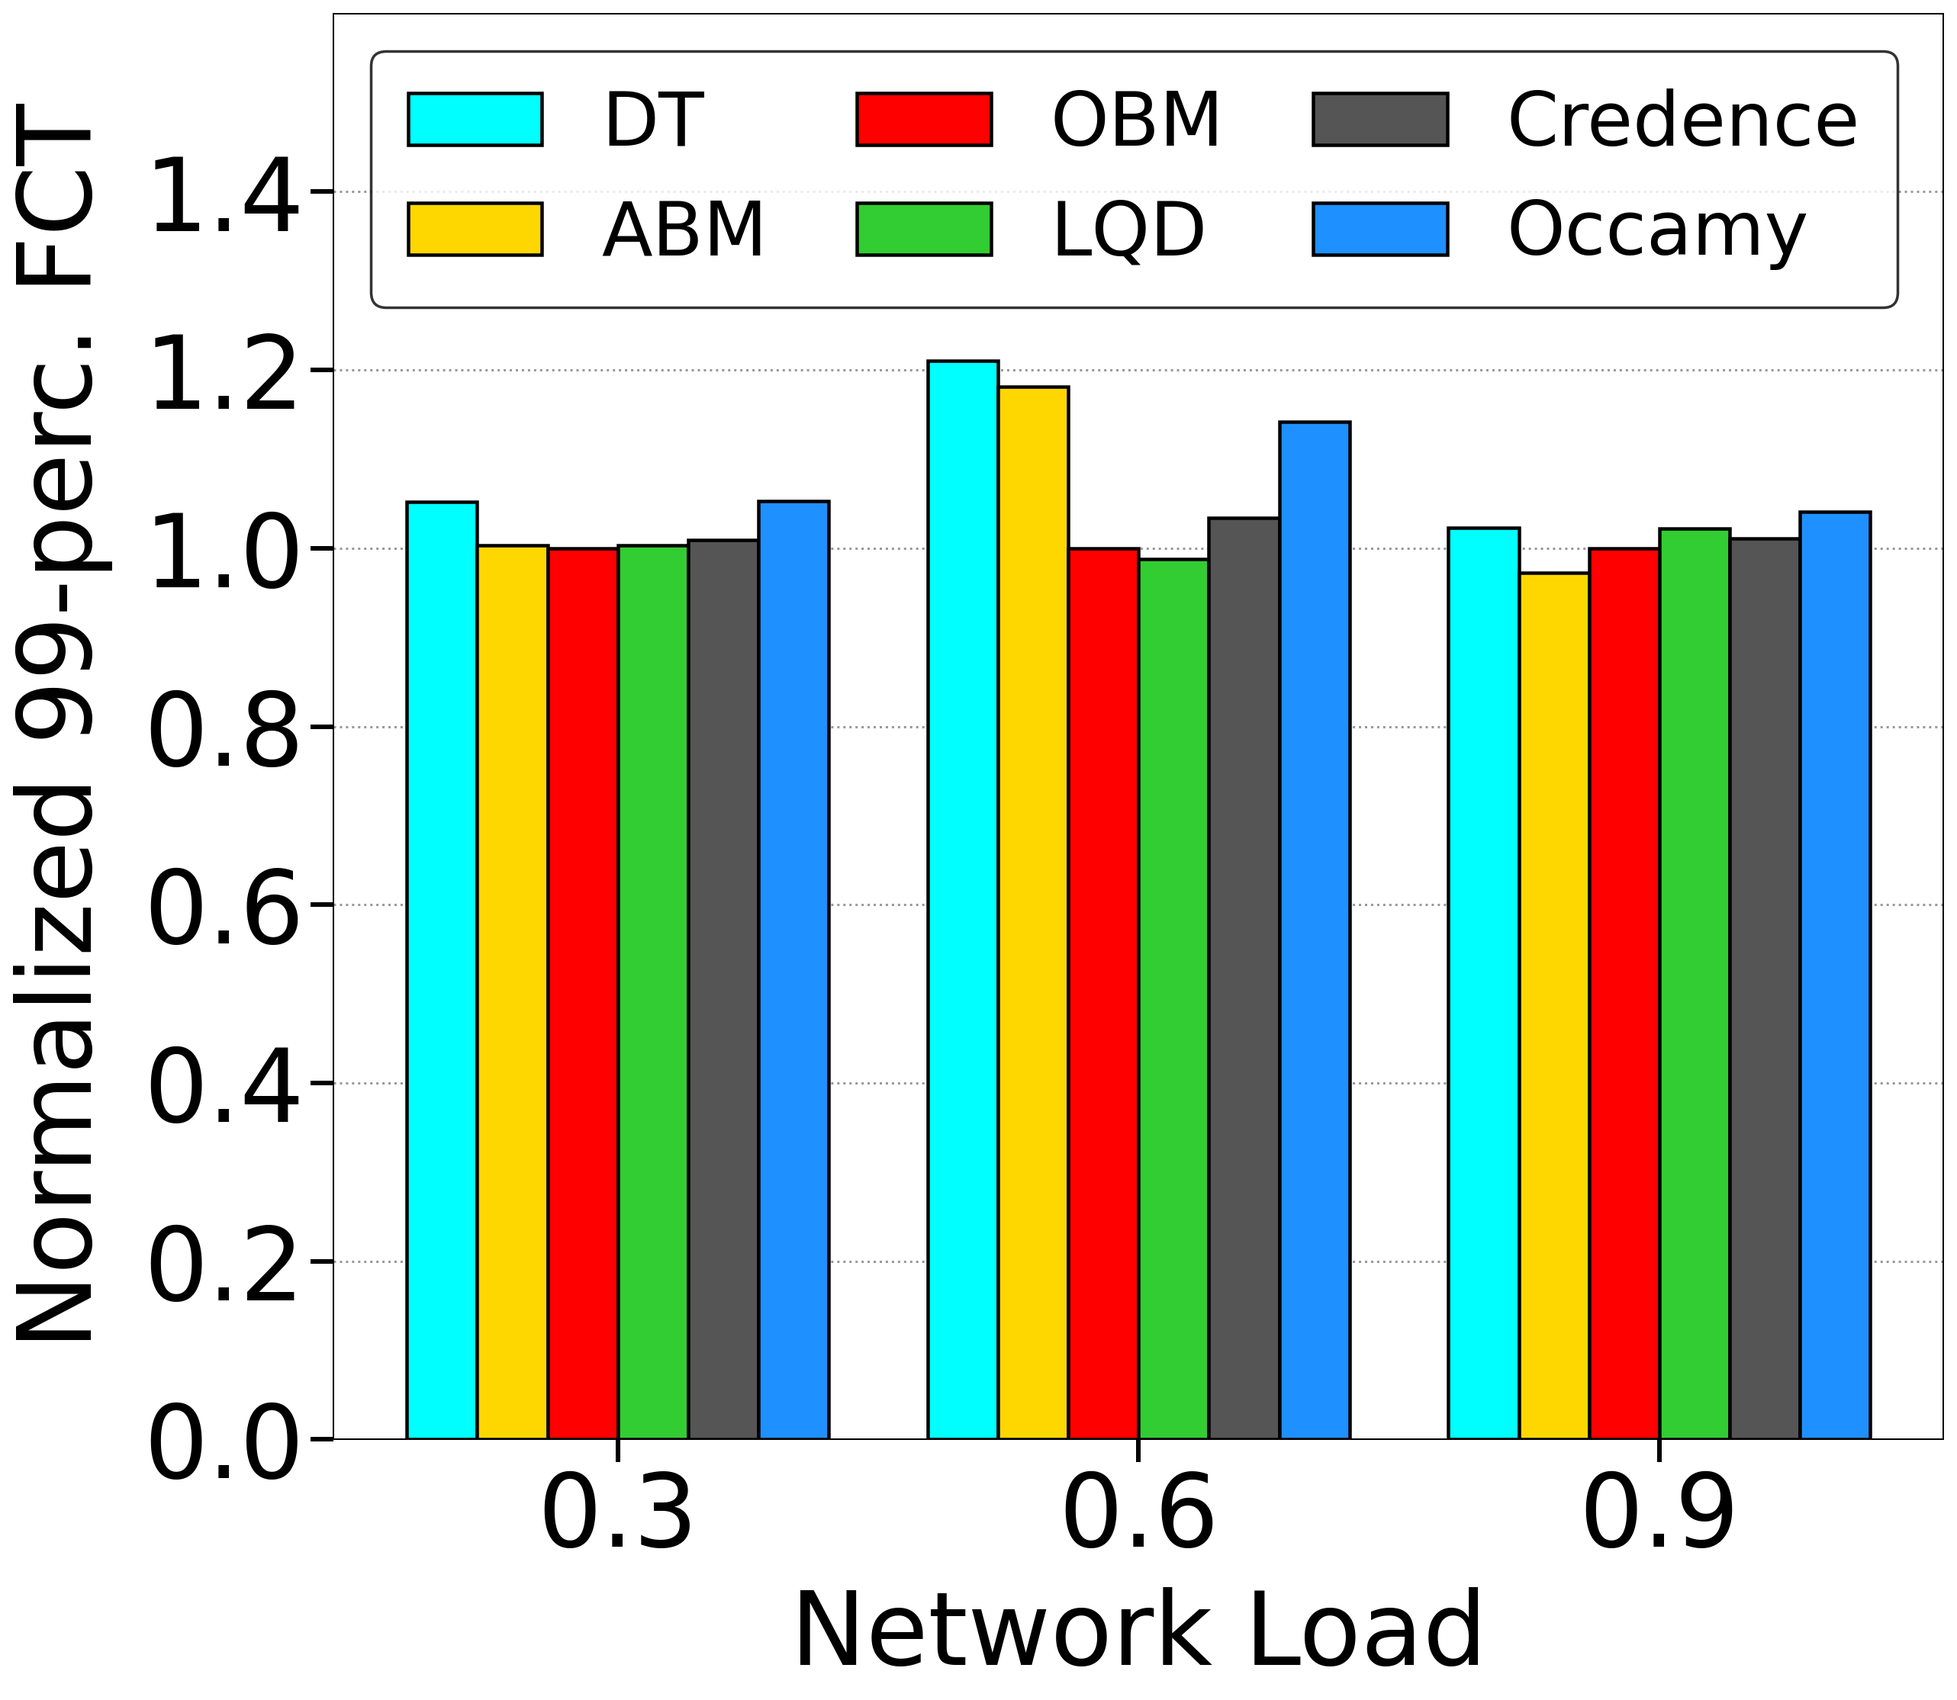
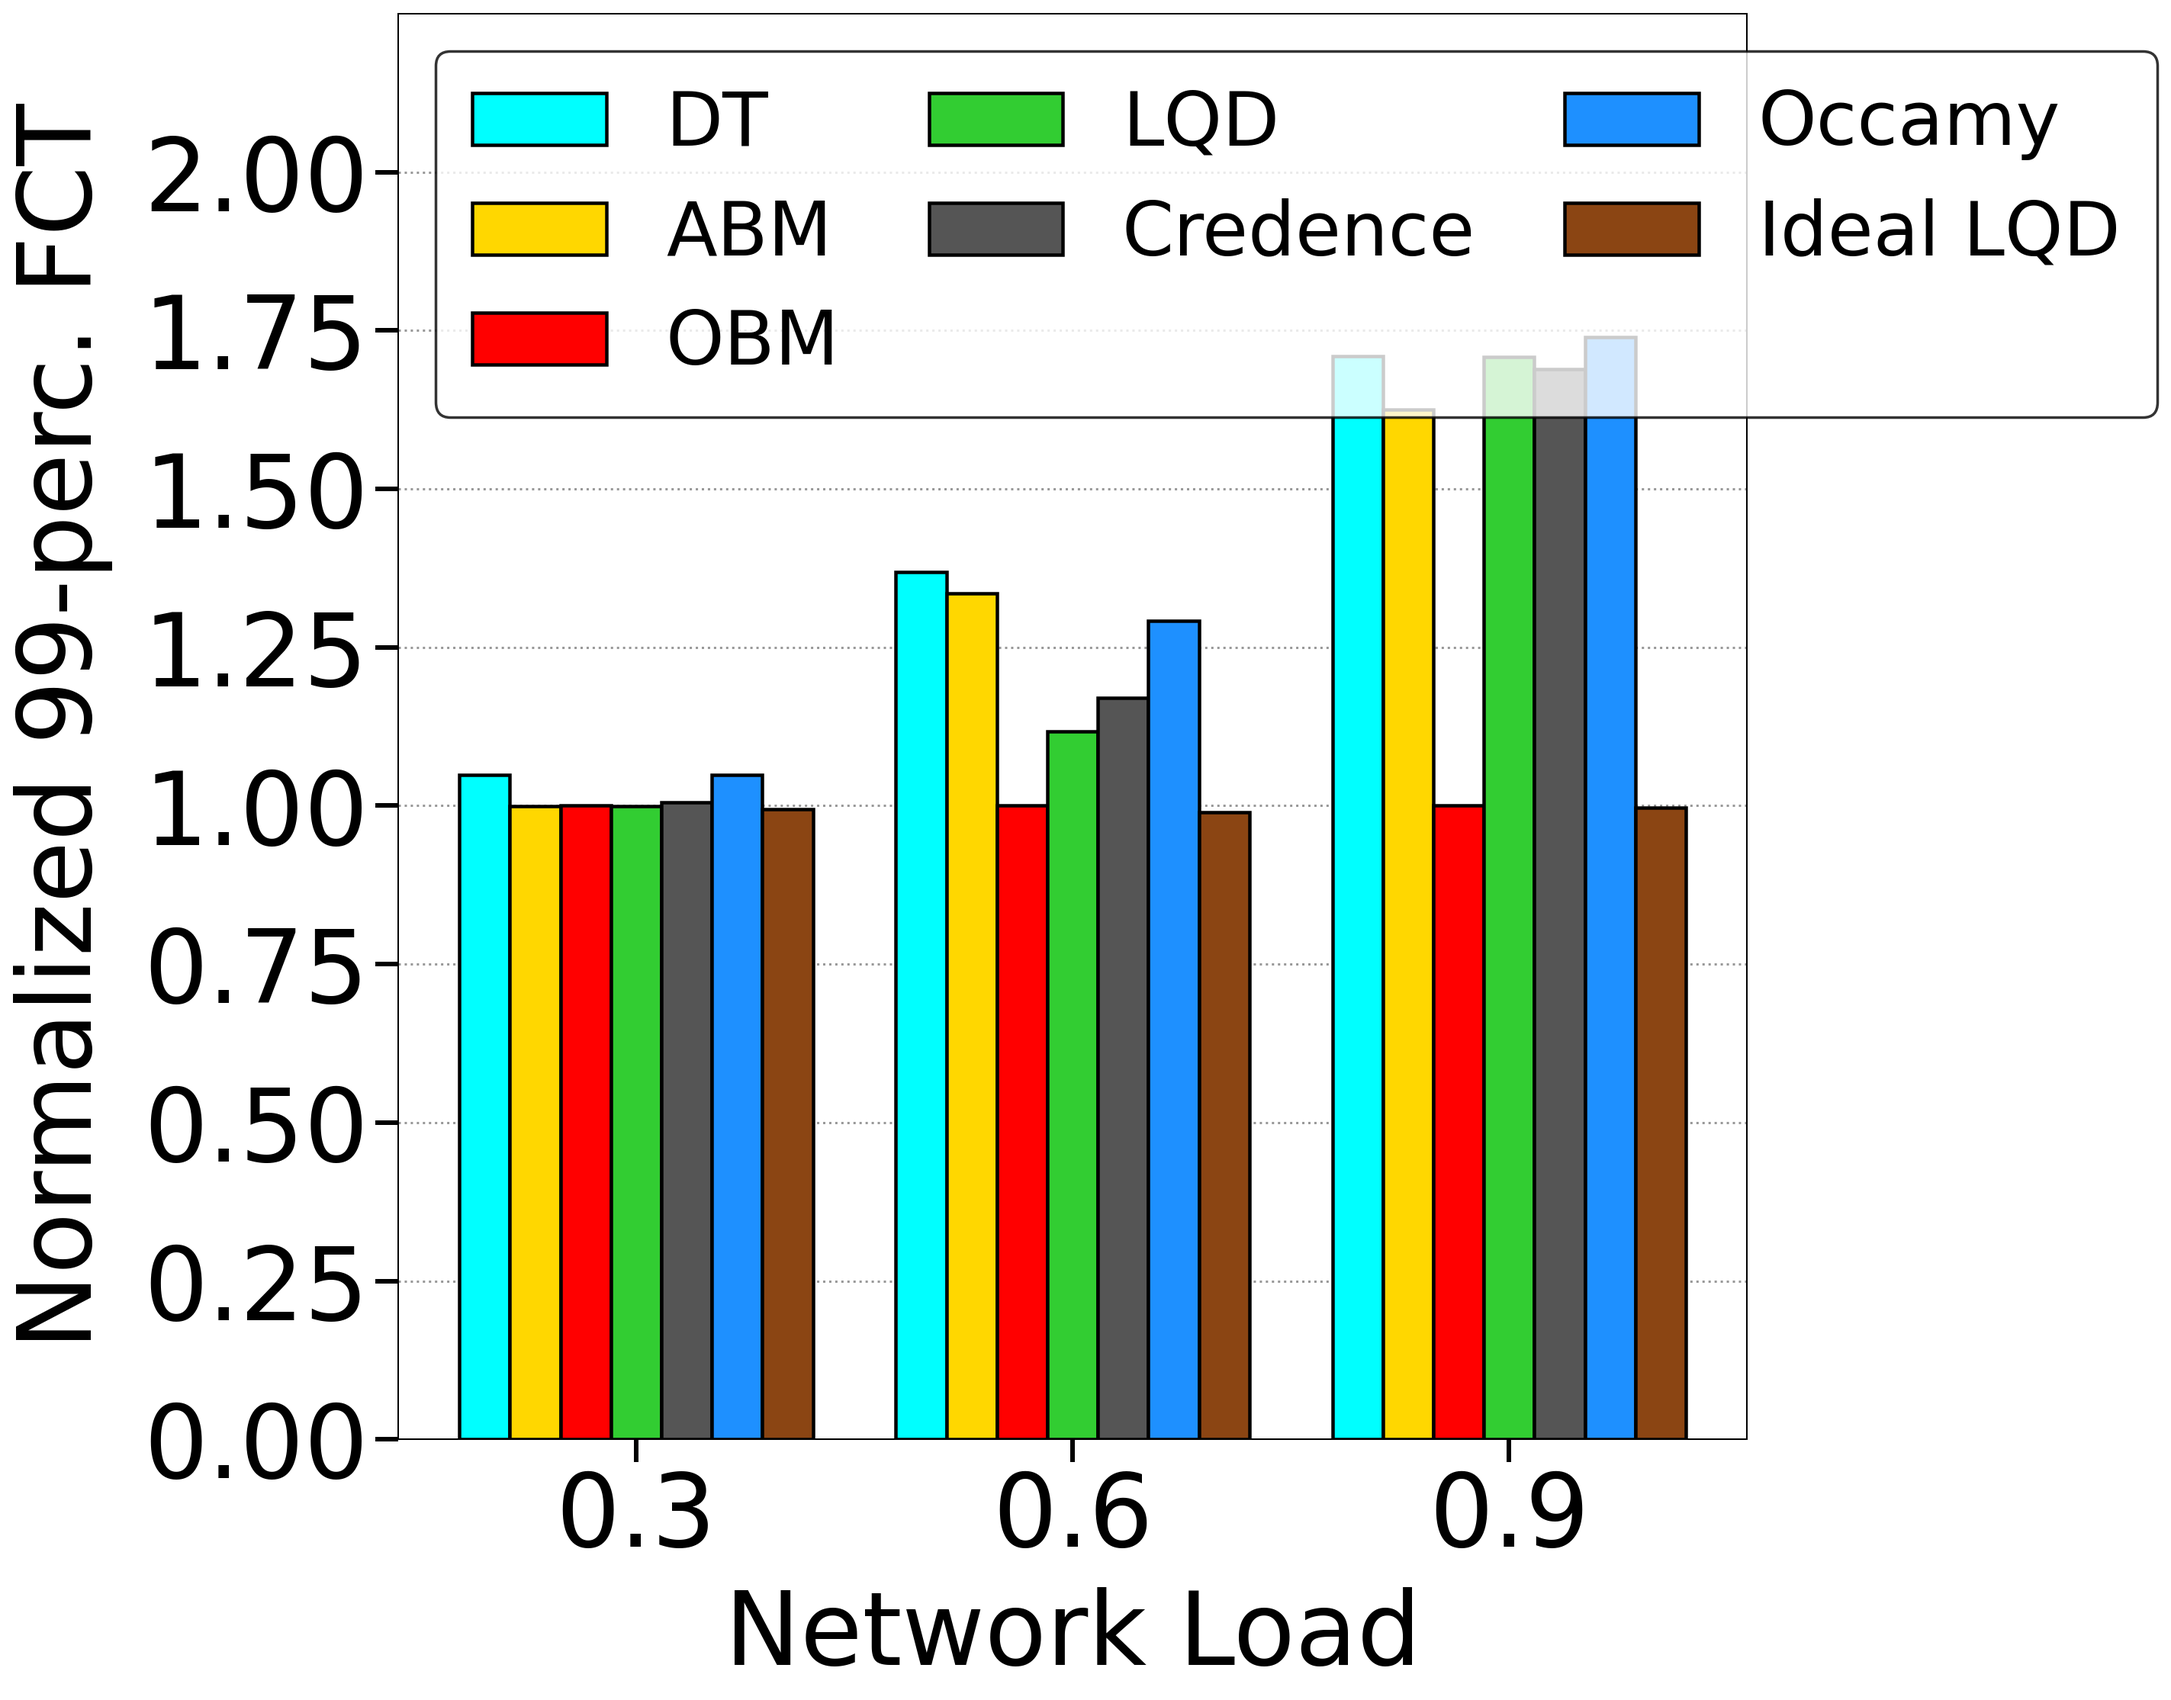
added new bar for websearch workload --need to improve aesthetics

diff --git a/plot_fct.py b/plot_fct.py
@@ -38,10 +38,11 @@ ALGO_META = {
     "lqd":      ("LQD",      "#32CD32"),
     "credence": ("Credence", "#555555"),
     "occamy":   ("Occamy",   "#1E90FF"), # Added Occamy (Blue)
+    "lqd-ideal": ("Ideal LQD", "#8B4513")  # Added Ideal LQD (Purple)
 }
 
 # Updated order to include Occamy
-ORDERED_LABELS = ["DT", "ABM", "OBM", "LQD", "Credence", "Occamy"]
+ORDERED_LABELS = ["DT", "ABM", "OBM", "LQD", "Credence", "Occamy", "Ideal LQD"]
 BASELINE_LABEL = "OBM"  # normalization reference (must match an ORDERED_LABELS item)
 
 DATASET_XLABEL = {"incast": "Incast Degree", "websearch": "Network Load"}
@@ -253,7 +254,7 @@ def main():
     ap = argparse.ArgumentParser()
     ap.add_argument("--files", nargs="*", default=[
         "stats_dt.txt", "stats_abm.txt", "stats_obm.txt",
-        "stats_lqd.txt", "stats_credence.txt", "stats_occamy.txt"
+        "stats_lqd.txt", "stats_credence.txt", "stats_occamy.txt", "stats_lqd_ideal.txt"
     ], help="Paths to stats files (any order).")
     ap.add_argument("--outdir", default=".", help="Where to write PNGs.")
     ap.add_argument("--dpi", type=int, default=180,
@@ -270,6 +271,7 @@ def main():
             if   "dt"       in base: algo_key = "dt"
             elif "abm"      in base: algo_key = "abm"
             elif "obm"      in base: algo_key = "obm"
+            elif "lqd_ideal" in base: algo_key = "lqd-ideal"
             elif "lqd"      in base: algo_key = "lqd"
             elif "credence" in base: algo_key = "credence"
             elif "occamy"   in base: algo_key = "occamy" # Added parsing for Occamy
